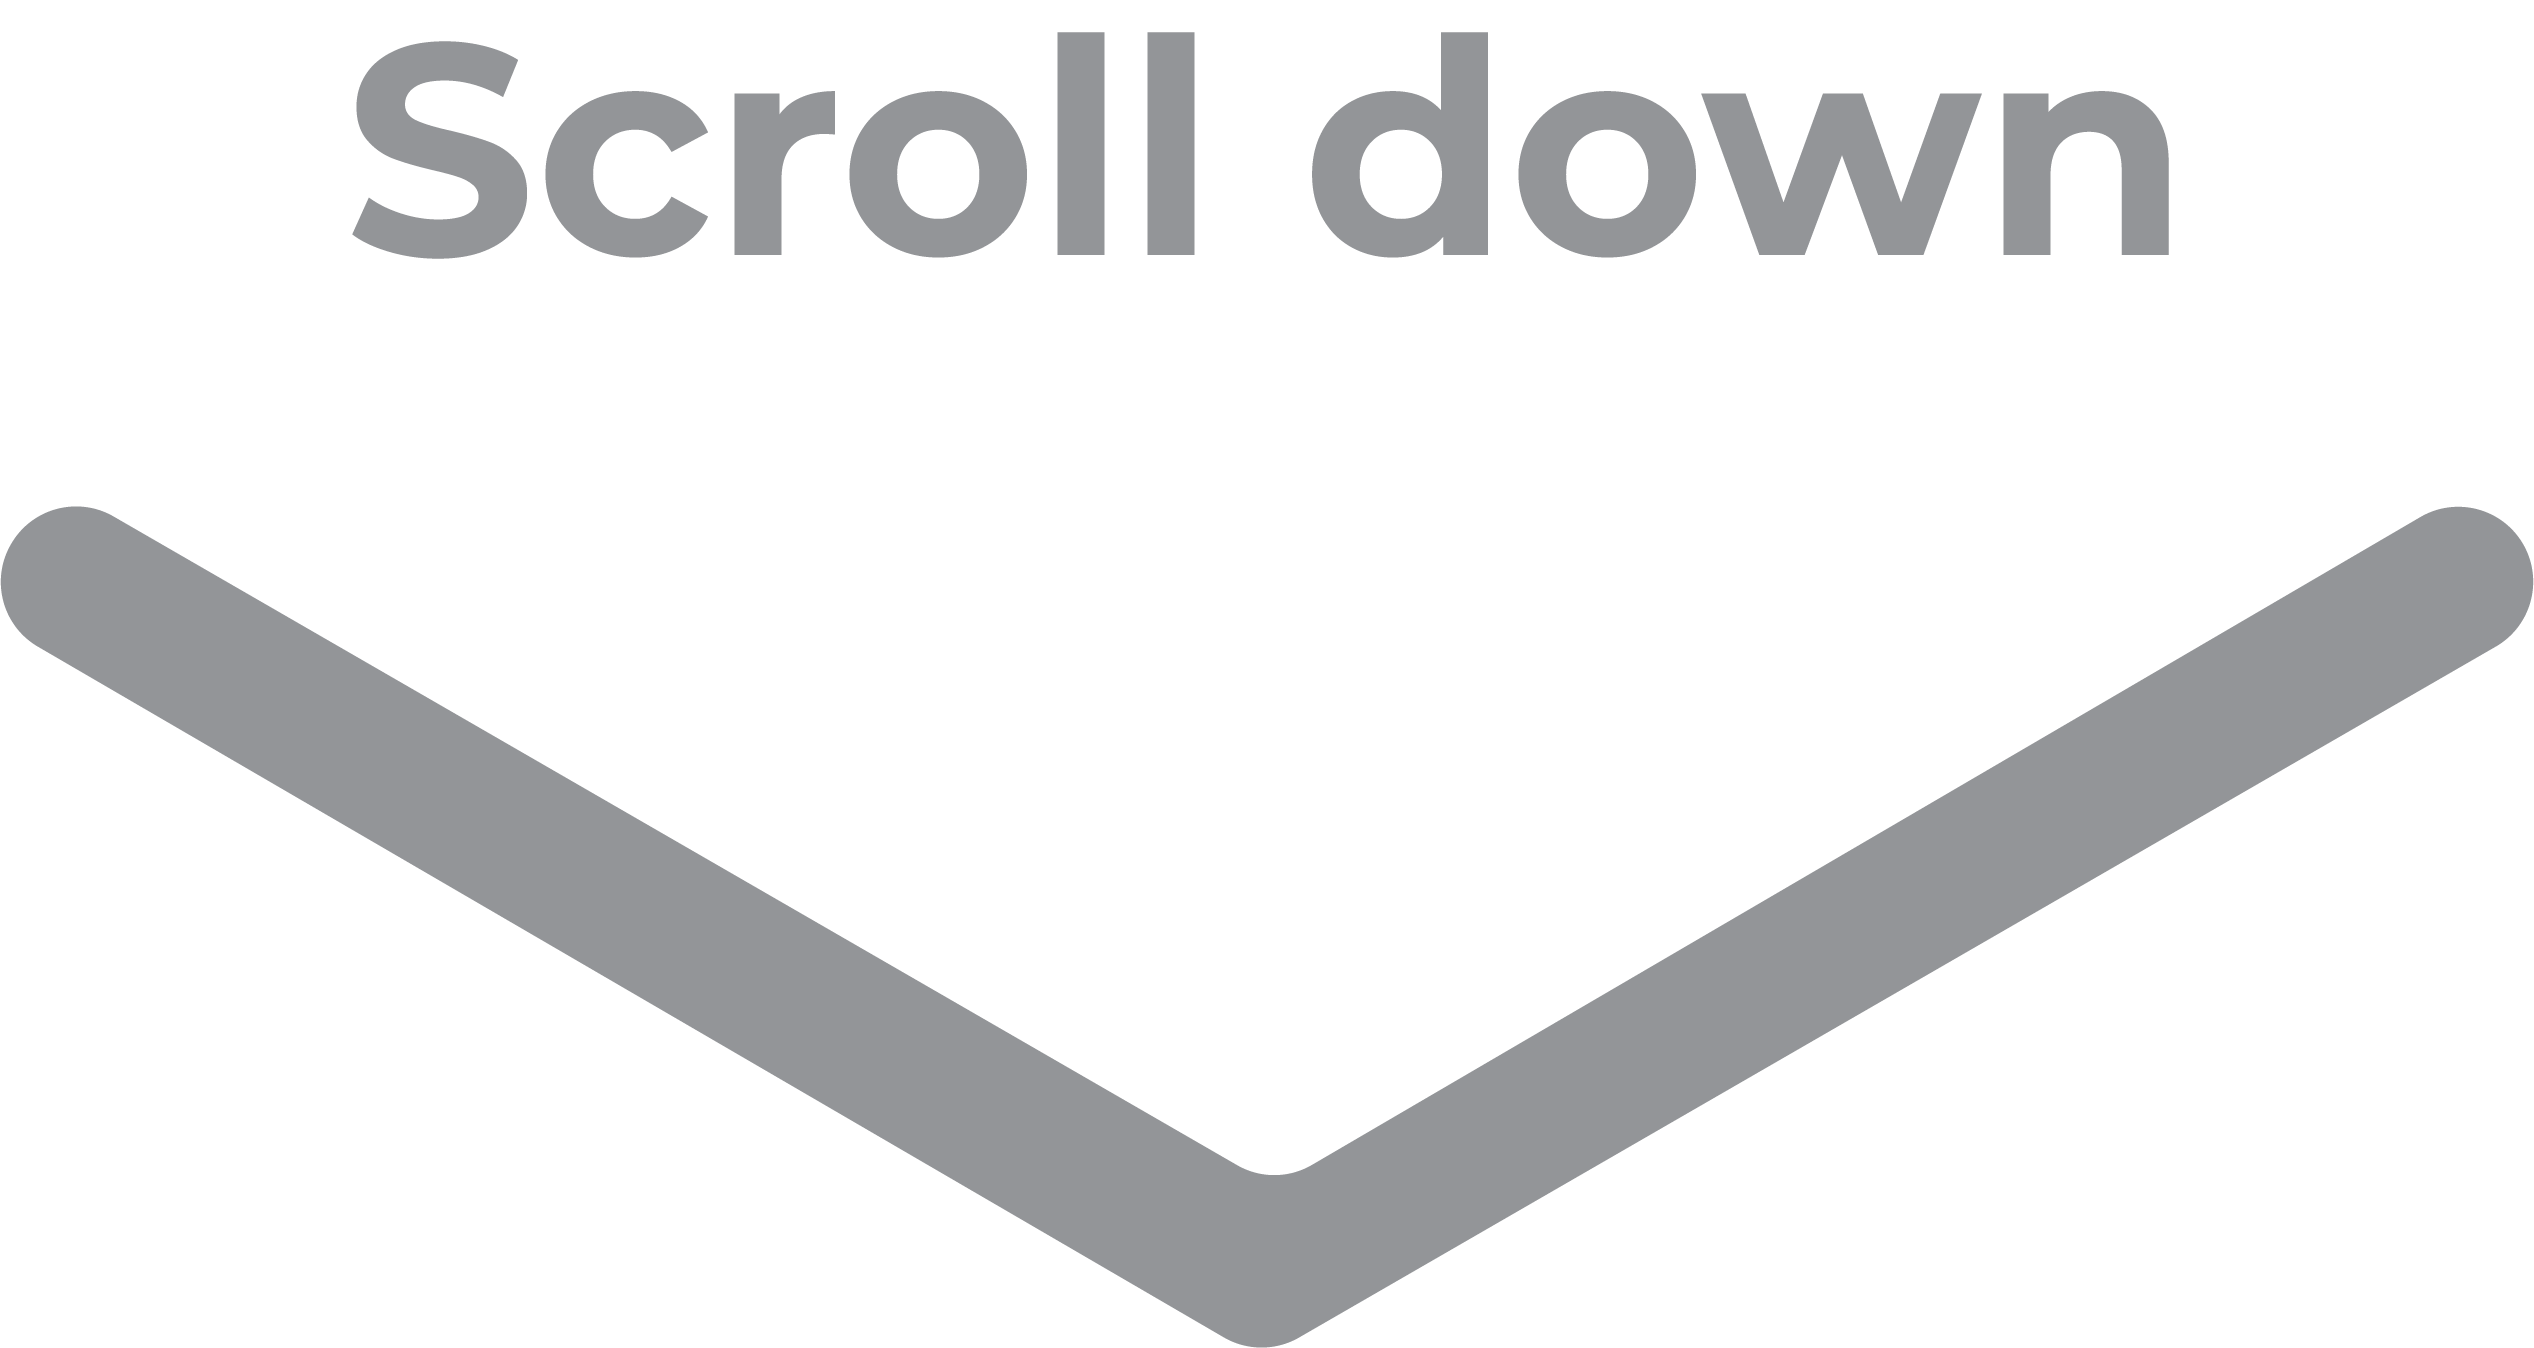
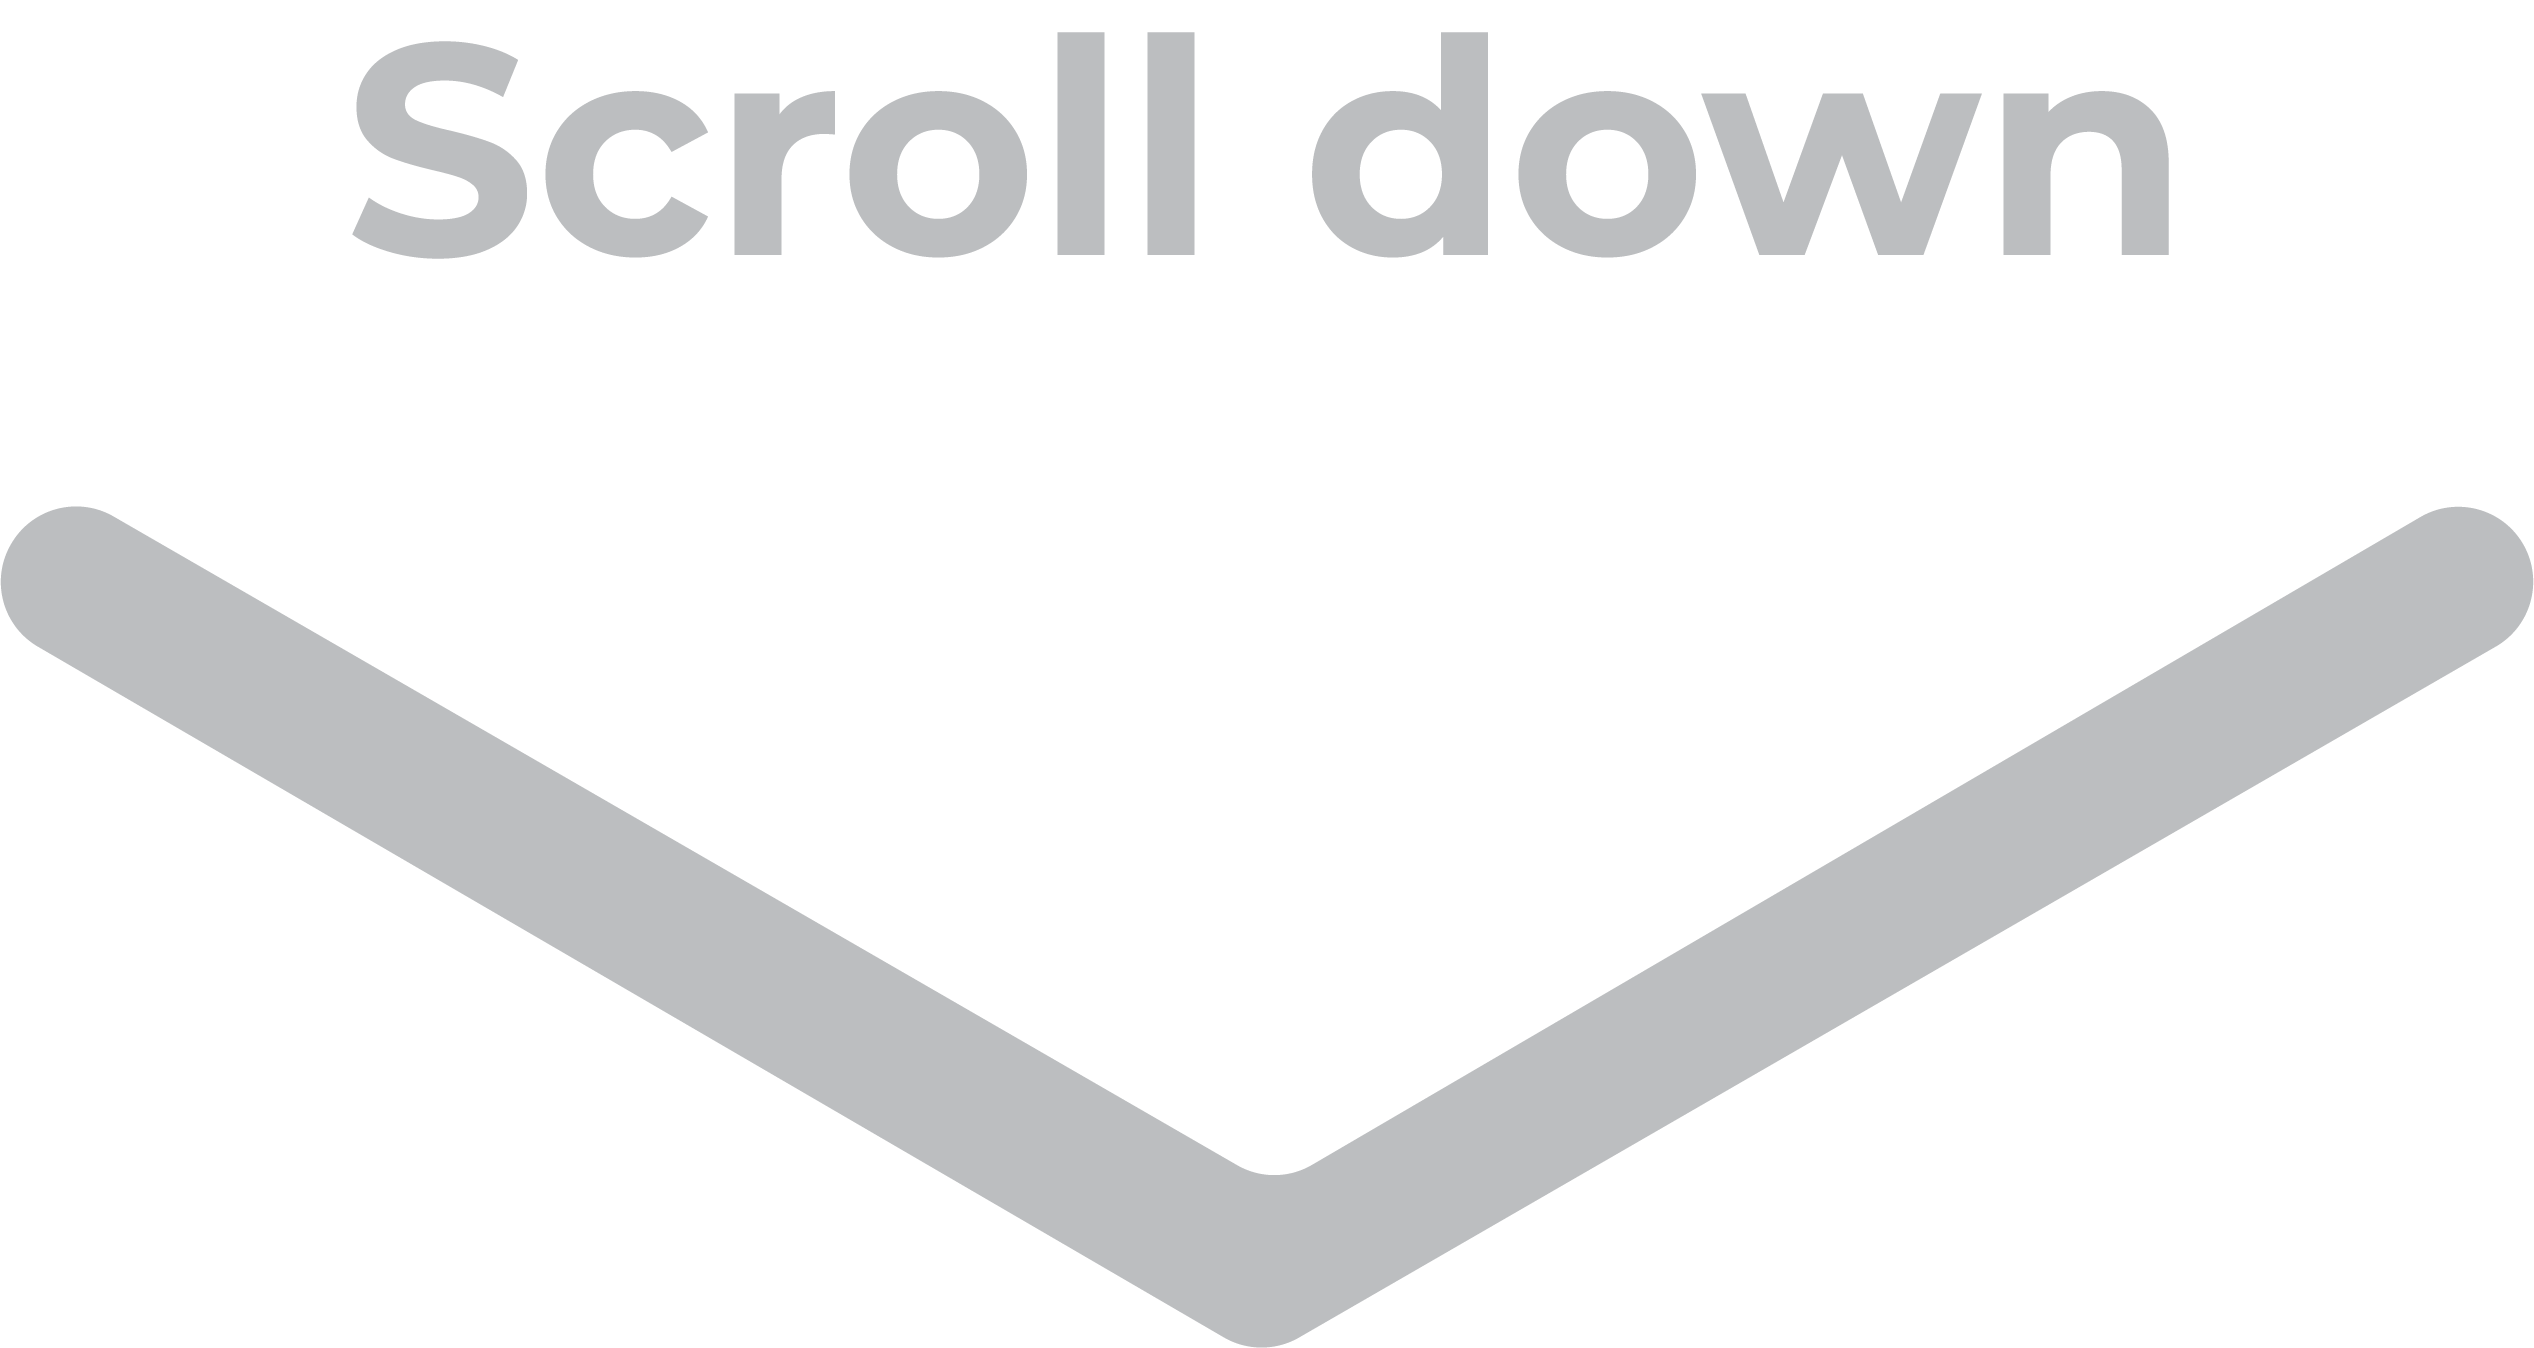
Update 4.6

Changed region(s): [[0.0, 0.3739, 1.0, 1.0], [0.1247, 0.0, 0.8729, 0.2181]]

diff --git a/doctor.html b/doctor.html
@@ -20,10 +20,10 @@
                     <div class="bar3"></div>
                 </div>
             </div>
-            <div class="center vertical font" style="background: rgba(255, 255, 255, 0.75); padding: 10px;">
+            <div class="center vertical font div_center" style="background: rgba(255, 255, 255, 0.75); padding: 10px; width: 40%;">
                 <h1 style="font-size: 300%;">Set up appointment</h1>
             </div>
-            <div class="center vertical font" style="padding: 10px;">
+            <div class="center vertical font" style="padding: 10px;">   
                 <div class="row div_center" style="margin-top: 50%; width: 100%; height: 11%; bottom: 0px; position: absolute;">
                     <p class="col-sm-4>"></p>
                     <p class="col-sm-4>"></p>

diff --git a/hetty.html b/hetty.html
@@ -24,7 +24,7 @@
                 <div class="row div_center" style="margin-top: 50%; width: 100%; height: 11%; bottom: 0px; position: absolute;">
                     <p class="col-sm-4>"></p>
                     <p class="col-sm-4>"></p>
-                    <img src="arrow.png" class="arrow textMain" style="width: 12%;">
+                    <img src="arrow2.png" class="arrow textMain" style="width: 12%;">
                 </div>
 	        </div>
             <div class="center vertical div_center mobileDoctor font" style="background: rgba(255, 255, 255, 0.75); padding: 10px; height: 20%;">

diff --git a/optiondoctor.html b/optiondoctor.html
@@ -20,7 +20,7 @@
                     <div class="bar3"></div>
                 </div>
             </div>
-            <div class="center vertical font" style="background: rgba(255, 255, 255, 0.75); padding: 10px;">
+            <div class="center vertical font div_center" style="background: rgba(255, 255, 255, 0.75); padding: 10px; width: 50%;">
                 <h1 style="font-size: 300%;">Quick Appointments!</h1>
                 <p style="font-size: x-large;">Set up a quick appointment with the form below.</p>
             </div>

diff --git a/alexa.html b/alexa.html
@@ -29,7 +29,7 @@
                 <div class="row div_center" style="margin-top: 50%; width: 100%; height: 11%; bottom: 0px; position: absolute;">
                     <p class="col-sm-4>"></p>
                     <p class="col-sm-4>"></p>
-                    <img src="arrow.png" class="arrow textMain" style="width: 12%;">
+                    <img src="arrow2.png" class="arrow textMain" style="width: 12%;">
                 </div>
 	        </div>
             <div id="side-bar" class="side-bar font">

diff --git a/alice.html b/alice.html
@@ -30,7 +30,7 @@
                 <div class="row div_center" style="margin-top: 50%; width: 100%; height: 11%; bottom: 0px; position: absolute;">
                     <p class="col-sm-4>"></p>
                     <p class="col-sm-4>"></p>
-                    <img src="arrow.png" class="arrow textMain" style="width: 12%;">
+                    <img src="arrow2.png" class="arrow textMain" style="width: 12%;">
                 </div>
 	        </div>
             <div id="side-bar" class="side-bar font">

diff --git a/edan.html b/edan.html
@@ -30,7 +30,7 @@
                 <div class="row div_center" style="margin-top: 50%; width: 100%; height: 11%; bottom: 0px; position: absolute;">
                     <p class="col-sm-4>"></p>
                     <p class="col-sm-4>"></p>
-                    <img src="arrow.png" class="arrow textMain" style="width: 12%;">
+                    <img src="arrow2.png" class="arrow textMain" style="width: 12%;">
                 </div>
 	        </div>
             <div id="side-bar" class="side-bar font">

diff --git a/getStarted.html b/getStarted.html
@@ -30,7 +30,7 @@
                 <div class="row div_center" style="margin-top: 50%; width: 100%; height: 11%; bottom: 0px; position: absolute;">
                     <p class="col-sm-4>"></p>
                     <p class="col-sm-4>"></p>
-                    <img src="arrow.png" class="arrow textMain" style="width: 12%;">
+                    <img src="arrow2.png" class="arrow textMain" style="width: 12%;">
                 </div>
 	        </div>
             <div id="side-bar" class="side-bar font">

diff --git a/jamal.html b/jamal.html
@@ -30,7 +30,7 @@
                 <div class="row div_center" style="margin-top: 50%; width: 100%; height: 11%; bottom: 0px; position: absolute;">
                     <p class="col-sm-4>"></p>
                     <p class="col-sm-4>"></p>
-                    <img src="arrow.png" class="arrow textMain" style="width: 12%;">
+                    <img src="arrow2.png" class="arrow textMain" style="width: 12%;">
                 </div>
 	        </div>
             <div id="side-bar" class="side-bar font">

diff --git a/karen.html b/karen.html
@@ -30,7 +30,7 @@
                 <div class="row div_center" style="margin-top: 50%; width: 100%; height: 11%; bottom: 0px; position: absolute;">
                     <p class="col-sm-4>"></p>
                     <p class="col-sm-4>"></p>
-                    <img src="arrow.png" class="arrow textMain" style="width: 12%;">
+                    <img src="arrow2.png" class="arrow textMain" style="width: 12%;">
                 </div>
 	        </div>
             <div id="side-bar" class="side-bar font">

diff --git a/kathy.html b/kathy.html
@@ -30,7 +30,7 @@
                 <div class="row div_center" style="margin-top: 50%; width: 100%; height: 11%; bottom: 0px; position: absolute;">
                     <p class="col-sm-4>"></p>
                     <p class="col-sm-4>"></p>
-                    <img src="arrow.png" class="arrow textMain" style="width: 12%;">
+                    <img src="arrow2.png" class="arrow textMain" style="width: 12%;">
                 </div>
 	        </div>
             <div id="side-bar" class="side-bar font">

diff --git a/mark.html b/mark.html
@@ -30,7 +30,7 @@
                 <div class="row div_center" style="margin-top: 50%; width: 100%; height: 11%; bottom: 0px; position: absolute;">
                     <p class="col-sm-4>"></p>
                     <p class="col-sm-4>"></p>
-                    <img src="arrow.png" class="arrow textMain" style="width: 12%;">
+                    <img src="arrow2.png" class="arrow textMain" style="width: 12%;">
                 </div>
 	        </div>
             <div id="side-bar" class="side-bar font">

diff --git a/pam.html b/pam.html
@@ -30,7 +30,7 @@
                 <div class="row div_center" style="margin-top: 50%; width: 100%; height: 11%; bottom: 0px; position: absolute;">
                     <p class="col-sm-4>"></p>
                     <p class="col-sm-4>"></p>
-                    <img src="arrow.png" class="arrow textMain" style="width: 12%;">
+                    <img src="arrow2.png" class="arrow textMain" style="width: 12%;">
                 </div>
 	        </div>
             <div id="side-bar" class="side-bar font">
